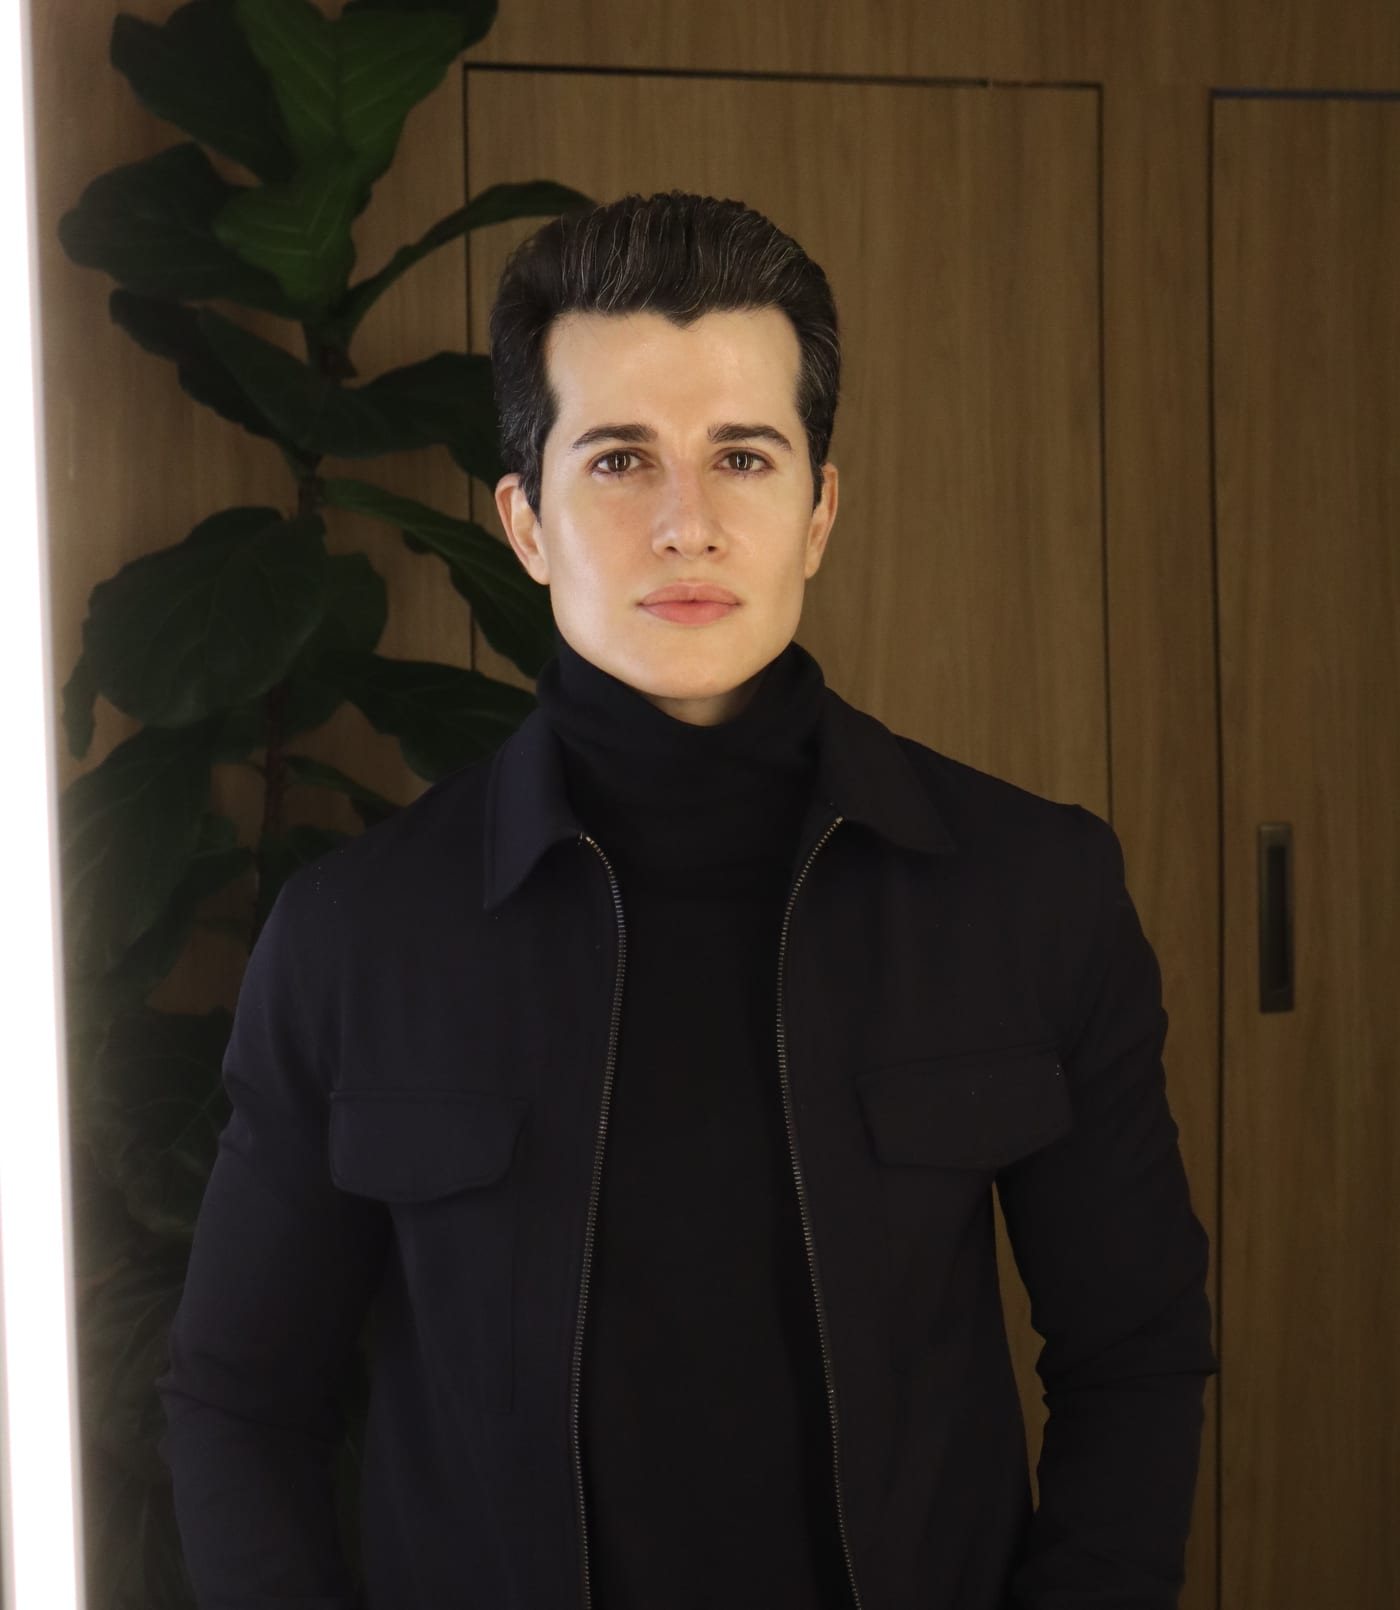
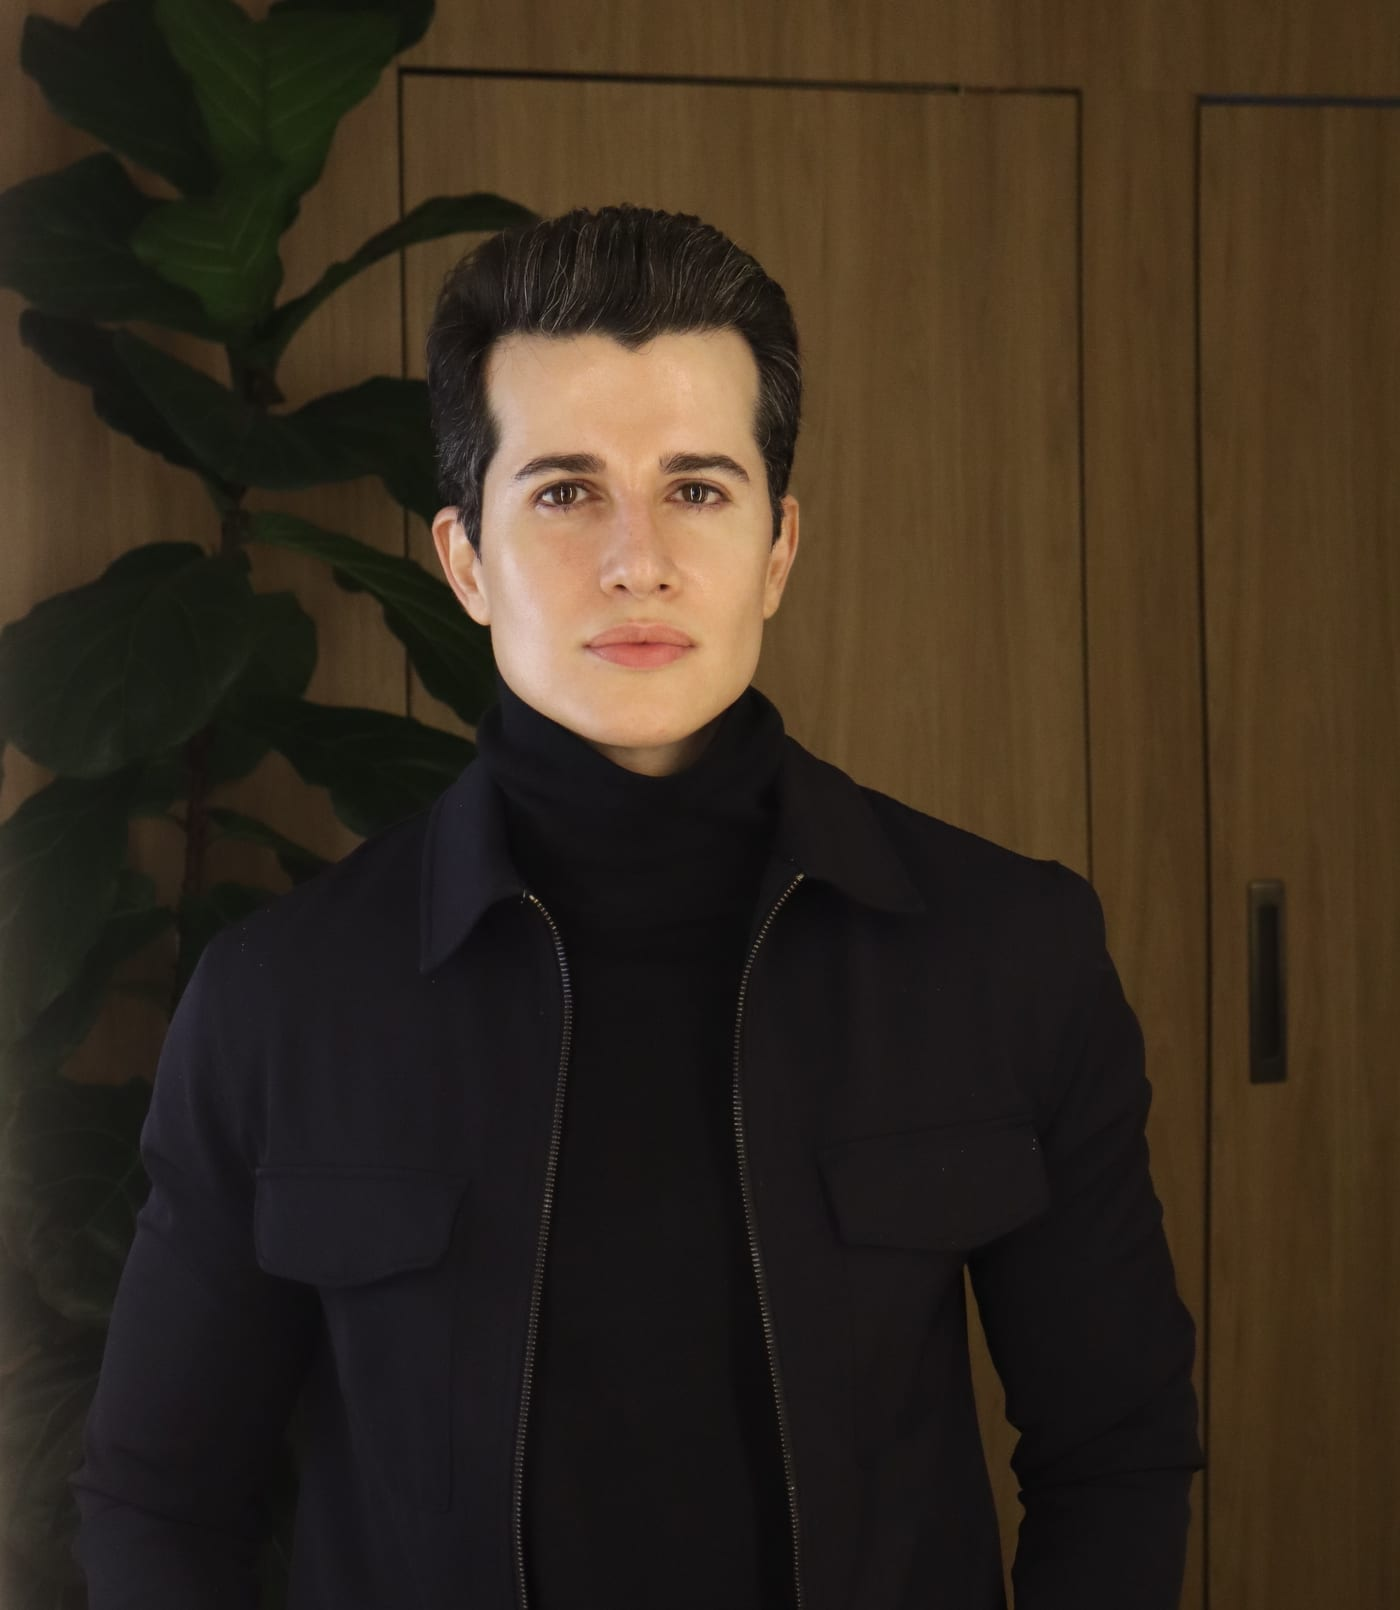
sites: 122 clientes

diff --git a/jose-bezerra/index.html b/jose-bezerra/index.html
@@ -632,7 +632,7 @@ p { margin: 0; }
         
       </div>
       <div class="sobre-txt reveal">
-        <span class="eyebrow">Sobre a José Francisco Bezerra</span>
+        <span class="eyebrow">Sobre o José Francisco Bezerra</span>
         <h2>Quem vai cuidar do seu caso</h2>
         <p>José Francisco Bezerra atua há 14 anos no direito do trabalho, com foco na defesa e na assessoria de empresas. É sócio do escritório PPB Advogados e possui MBA pela USP.
 
@@ -643,7 +643,7 @@ O trabalho parte de uma premissa simples: a maior parte do passivo trabalhista n
           <li><svg viewBox="0 0 24 24" fill="none" stroke="currentColor" stroke-width="1.7" stroke-linecap="round" stroke-linejoin="round" aria-hidden="true"><circle cx="12" cy="12" r="9"/><path d="M8.5 12.3l2.4 2.4 4.6-4.8"/></svg><span>Sócio do escritório PPB Advogados</span></li>
           <li><svg viewBox="0 0 24 24" fill="none" stroke="currentColor" stroke-width="1.7" stroke-linecap="round" stroke-linejoin="round" aria-hidden="true"><circle cx="12" cy="12" r="9"/><path d="M8.5 12.3l2.4 2.4 4.6-4.8"/></svg><span>Atendimento presencial e on-line</span></li>
         </ul>
-        <a class="btn btn-brand" href="https://wa.me/5567999418273?text=Ol%C3%A1%2C%20Dr.%20Jos%C3%A9.%20Vim%20pelo%20site%20e%20gostaria%20de%20falar%20sobre%20um%20caso%20trabalhista." target="_blank" rel="noopener"><svg viewBox="0 0 24 24" fill="currentColor" aria-hidden="true"><path d="M12 2a10 10 0 0 0-8.6 15.1L2 22l5-1.3A10 10 0 1 0 12 2Zm5.2 14.2c-.2.6-1.2 1.1-1.7 1.2-.5 0-1 .2-3.3-.7-2.8-1.1-4.6-4-4.7-4.2-.1-.2-1.1-1.5-1.1-2.9s.7-2 1-2.3c.2-.3.5-.3.7-.3h.5c.2 0 .4 0 .6.5l.9 2.1c.1.2.1.4 0 .6l-.4.6-.5.5c-.2.2-.3.4-.1.7.2.3.8 1.4 1.8 2.2 1.2 1.1 2.3 1.4 2.6 1.6.3.1.5.1.7-.1l1-1.2c.2-.3.4-.2.7-.1l2.1 1c.3.2.5.3.6.4 0 .1 0 .8-.4 1.4Z"/></svg> Agendar avaliação</a>
+        <a class="btn btn-brand" href="https://wa.me/5567999418273?text=Ol%C3%A1%2C%20Dr.%20Jos%C3%A9.%20Vim%20pelo%20site%20e%20gostaria%20de%20falar%20sobre%20um%20caso%20trabalhista." target="_blank" rel="noopener"><svg viewBox="0 0 24 24" fill="currentColor" aria-hidden="true"><path d="M12 2a10 10 0 0 0-8.6 15.1L2 22l5-1.3A10 10 0 1 0 12 2Zm5.2 14.2c-.2.6-1.2 1.1-1.7 1.2-.5 0-1 .2-3.3-.7-2.8-1.1-4.6-4-4.7-4.2-.1-.2-1.1-1.5-1.1-2.9s.7-2 1-2.3c.2-.3.5-.3.7-.3h.5c.2 0 .4 0 .6.5l.9 2.1c.1.2.1.4 0 .6l-.4.6-.5.5c-.2.2-.3.4-.1.7.2.3.8 1.4 1.8 2.2 1.2 1.1 2.3 1.4 2.6 1.6.3.1.5.1.7-.1l1-1.2c.2-.3.4-.2.7-.1l2.1 1c.3.2.5.3.6.4 0 .1 0 .8-.4 1.4Z"/></svg> Falar sobre o meu caso</a>
       </div>
     </div>
   </section>

diff --git a/jose-bezerra/preview.html b/jose-bezerra/preview.html
@@ -627,7 +627,7 @@ p { margin: 0; }
         
       </div>
       <div class="sobre-txt reveal">
-        <span class="eyebrow">Sobre a José Francisco Bezerra</span>
+        <span class="eyebrow">Sobre o José Francisco Bezerra</span>
         <h2>Quem vai cuidar do seu caso</h2>
         <p>José Francisco Bezerra atua há 14 anos no direito do trabalho, com foco na defesa e na assessoria de empresas. É sócio do escritório PPB Advogados e possui MBA pela USP.
 
@@ -638,7 +638,7 @@ O trabalho parte de uma premissa simples: a maior parte do passivo trabalhista n
           <li><svg viewBox="0 0 24 24" fill="none" stroke="currentColor" stroke-width="1.7" stroke-linecap="round" stroke-linejoin="round" aria-hidden="true"><circle cx="12" cy="12" r="9"/><path d="M8.5 12.3l2.4 2.4 4.6-4.8"/></svg><span>Sócio do escritório PPB Advogados</span></li>
           <li><svg viewBox="0 0 24 24" fill="none" stroke="currentColor" stroke-width="1.7" stroke-linecap="round" stroke-linejoin="round" aria-hidden="true"><circle cx="12" cy="12" r="9"/><path d="M8.5 12.3l2.4 2.4 4.6-4.8"/></svg><span>Atendimento presencial e on-line</span></li>
         </ul>
-        <a class="btn btn-brand" href="https://wa.me/5567999418273?text=Ol%C3%A1%2C%20Dr.%20Jos%C3%A9.%20Vim%20pelo%20site%20e%20gostaria%20de%20falar%20sobre%20um%20caso%20trabalhista." target="_blank" rel="noopener"><svg viewBox="0 0 24 24" fill="currentColor" aria-hidden="true"><path d="M12 2a10 10 0 0 0-8.6 15.1L2 22l5-1.3A10 10 0 1 0 12 2Zm5.2 14.2c-.2.6-1.2 1.1-1.7 1.2-.5 0-1 .2-3.3-.7-2.8-1.1-4.6-4-4.7-4.2-.1-.2-1.1-1.5-1.1-2.9s.7-2 1-2.3c.2-.3.5-.3.7-.3h.5c.2 0 .4 0 .6.5l.9 2.1c.1.2.1.4 0 .6l-.4.6-.5.5c-.2.2-.3.4-.1.7.2.3.8 1.4 1.8 2.2 1.2 1.1 2.3 1.4 2.6 1.6.3.1.5.1.7-.1l1-1.2c.2-.3.4-.2.7-.1l2.1 1c.3.2.5.3.6.4 0 .1 0 .8-.4 1.4Z"/></svg> Agendar avaliação</a>
+        <a class="btn btn-brand" href="https://wa.me/5567999418273?text=Ol%C3%A1%2C%20Dr.%20Jos%C3%A9.%20Vim%20pelo%20site%20e%20gostaria%20de%20falar%20sobre%20um%20caso%20trabalhista." target="_blank" rel="noopener"><svg viewBox="0 0 24 24" fill="currentColor" aria-hidden="true"><path d="M12 2a10 10 0 0 0-8.6 15.1L2 22l5-1.3A10 10 0 1 0 12 2Zm5.2 14.2c-.2.6-1.2 1.1-1.7 1.2-.5 0-1 .2-3.3-.7-2.8-1.1-4.6-4-4.7-4.2-.1-.2-1.1-1.5-1.1-2.9s.7-2 1-2.3c.2-.3.5-.3.7-.3h.5c.2 0 .4 0 .6.5l.9 2.1c.1.2.1.4 0 .6l-.4.6-.5.5c-.2.2-.3.4-.1.7.2.3.8 1.4 1.8 2.2 1.2 1.1 2.3 1.4 2.6 1.6.3.1.5.1.7-.1l1-1.2c.2-.3.4-.2.7-.1l2.1 1c.3.2.5.3.6.4 0 .1 0 .8-.4 1.4Z"/></svg> Falar sobre o meu caso</a>
       </div>
     </div>
   </section>
